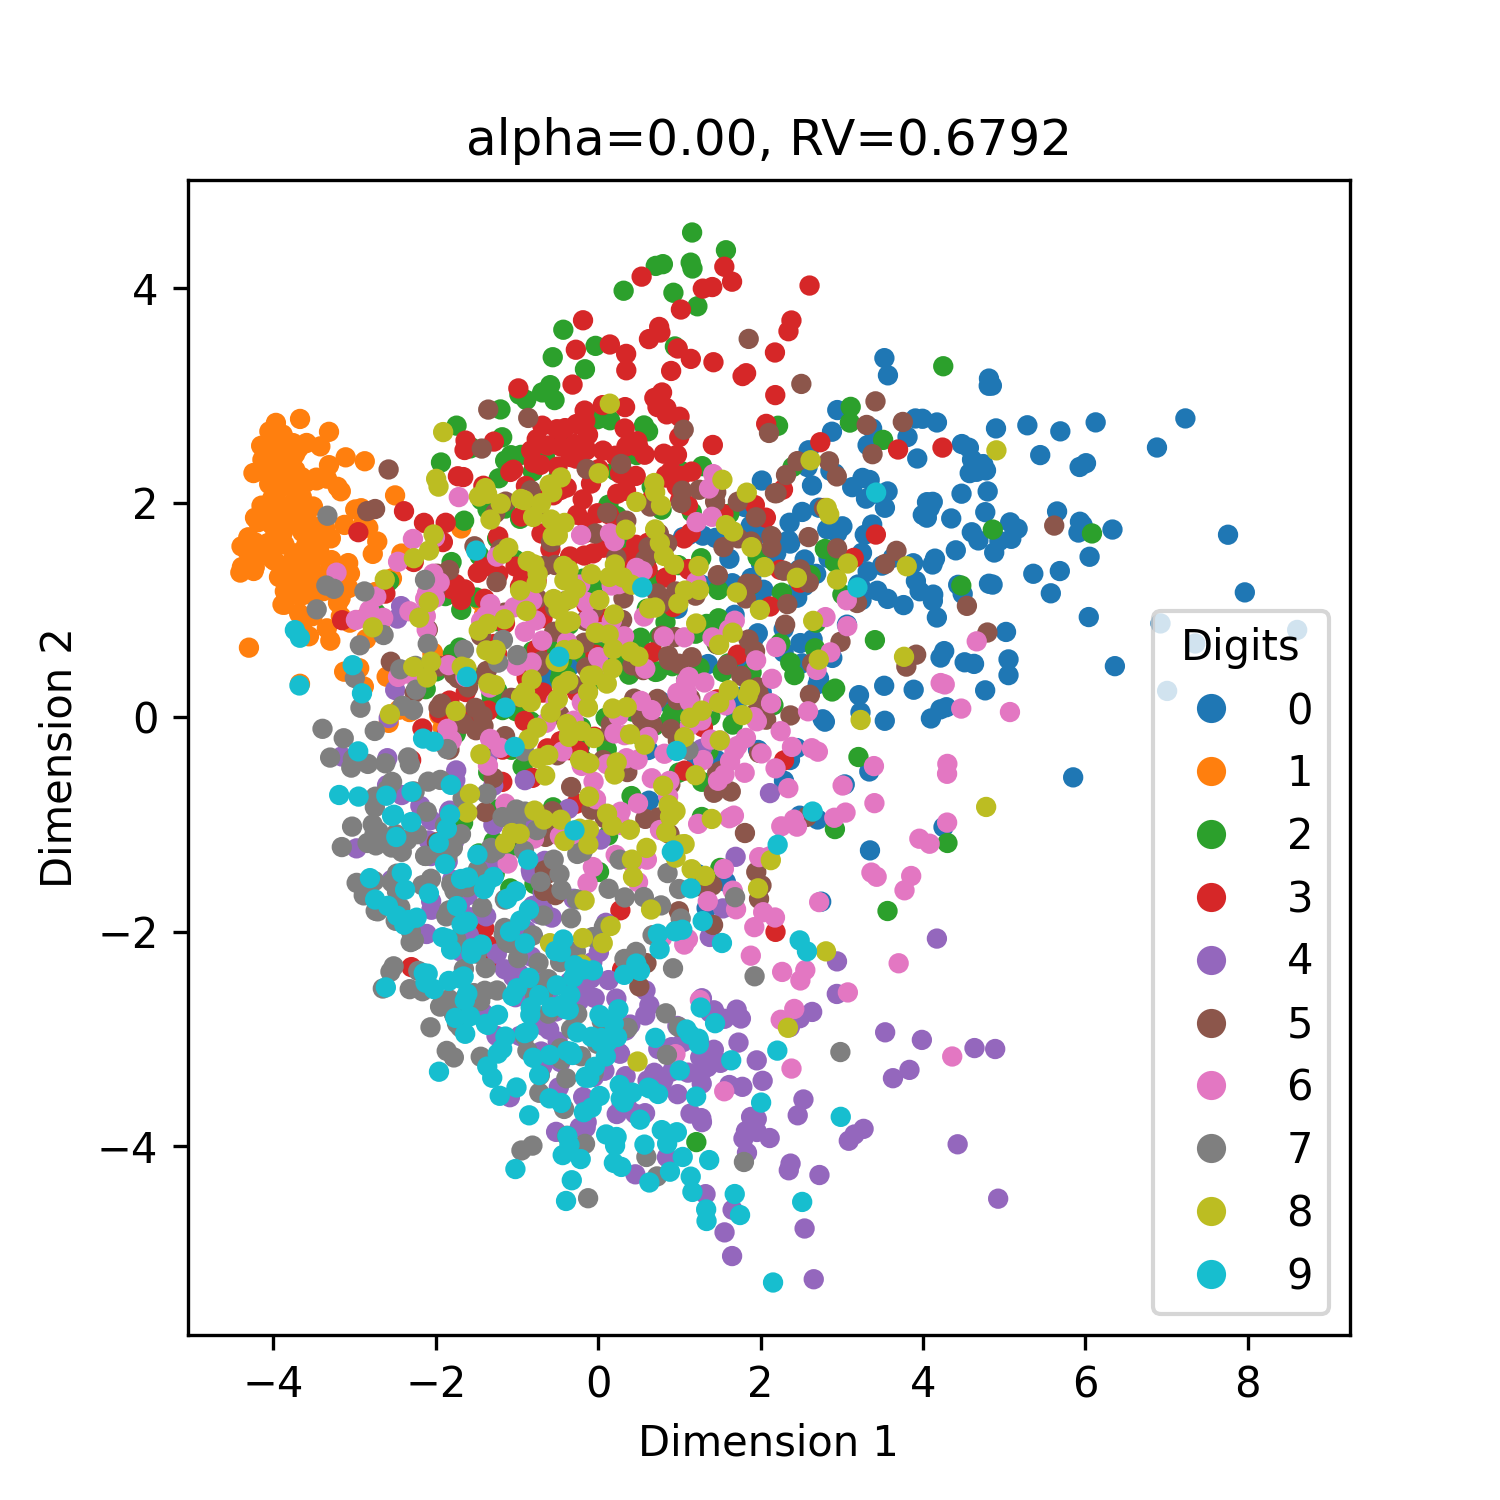
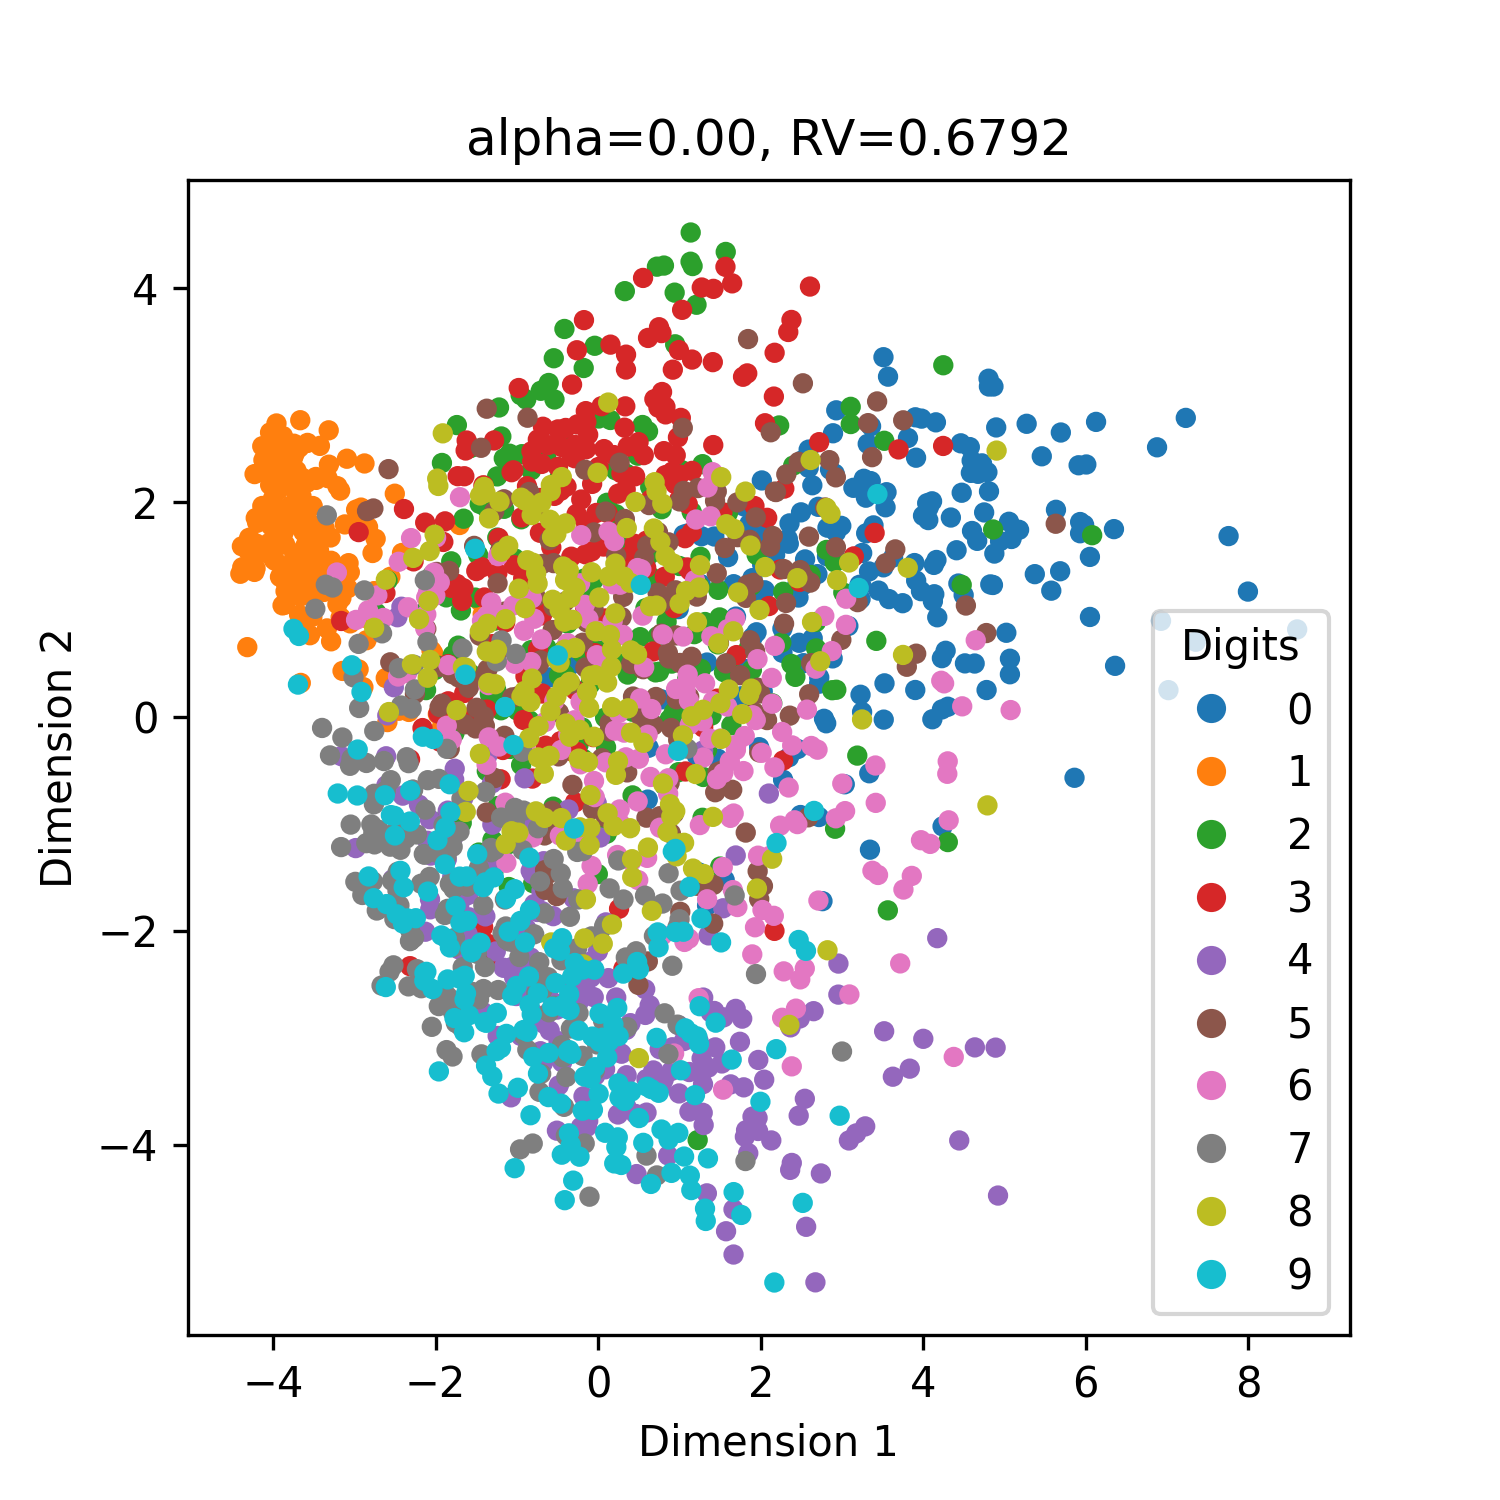
update of figures

diff --git a/mnist_combination.py b/mnist_combination.py
@@ -121,17 +121,19 @@ for i in range(n_in):
 
 # Plot the results in a grid with the label colors
 c_color = mnist_labels
-fig, axes = plt.subplots(n_in, n_out, figsize=(100/n_in, 100/n_out))
 for i in range(n_in):
     for j in range(n_out):
-        ax = axes[i, j]
+        
         Y_opt = Y_opt_grid[i][j]
-        ax.scatter(Y_opt[:, 0], Y_opt[:, 1], c=c_color, cmap='tab10', s=5)
-        ax.set_title(f"Input: {kernel_in_names[i]}, "
-                     f"Output: {kernel_out_names[j]}\n"
-                     f"RV: {RV_matrix_torch[i,j]:.6f}")
-        ax.set_xticks([])
-        ax.set_yticks([])
-plt.tight_layout()
-plt.savefig("results/mnist/mnist_combinations.png", dpi=300)
-                                                    
+        plt.figure(figsize=(5, 5))
+        
+        ax = plt.scatter(Y_opt[:, 0], Y_opt[:, 1], c=c_color, cmap='tab10', s=5)
+        plt.title(f"Input: {kernel_in_names[i]}, "
+                  f"Output: {kernel_out_names[j]}, "
+                  f"RV: {RV_matrix_torch[i,j]:.2f}")
+        if i == 0 and j == 0:
+            plt.legend(*ax.legend_elements(), title="Digits")
+        plt.xticks([])
+        plt.yticks([])
+        plt.tight_layout()
+        plt.savefig(f"results/mnist/mnist_comb_{i}_{j}.png", dpi=300, bbox_inches='tight')

diff --git a/evo_mnist_tsne.py b/evo_mnist_tsne.py
@@ -96,20 +96,20 @@ for alpha in alpha_vec:
 # Plot the results in a row of subplots
 # --------------------------------------------------------------
 
-fig, axes = plt.subplots(1, len(alpha_vec), figsize=(20, 5))
+# Plot the results for each alpha
 for i, alpha in enumerate(alpha_vec):
-    ax = axes[i]
+    
     Y_mix = Y_mix_list[i]
     RV_mix = RV_mix_list[i]
     
-    scatter = ax.scatter(Y_mix[:, 0].cpu(), Y_mix[:, 1].cpu(), 
+    # Make the scatter plot and save it
+    plt.figure(figsize=(5, 5))
+    ax = plt.scatter(Y_mix[:, 0].cpu(), Y_mix[:, 1].cpu(), 
                          c=mnist_labels, cmap='tab10', s=15)
-    ax.set_title(f"alpha={alpha:.2f}, RV={RV_mix:.4f}")
-    ax.set_xlabel("Dimension 1")
-    ax.set_ylabel("Dimension 2")
+    plt.title(f"alpha={alpha:.2f}, RV={RV_mix:.4f}")
+    plt.xlabel("Dimension 1")
+    plt.ylabel("Dimension 2")
     if i == 0:
-        ax.legend(*scatter.legend_elements(), title="Digits")
-plt.suptitle("MNIST RV with Input: Adapt. Gaussian + Class,  Output: Student")
-plt.tight_layout()
-plt.savefig("results/mnist/evo_tsne.png", dpi=300)
-plt.show()
+        plt.legend(*ax.legend_elements(), title="Digits")
+    plt.savefig(f"results/mnist/evo_tsne_{alpha}.png", dpi=300)
+    plt.show()

diff --git a/evo_mnist_pca.py b/evo_mnist_pca.py
@@ -106,4 +106,3 @@ for i, alpha in enumerate(alpha_vec):
         plt.legend(*ax.legend_elements(), title="Digits")
     plt.savefig(f"results/mnist/evo_pca_{alpha}.png", dpi=300)
     plt.show()
-    
